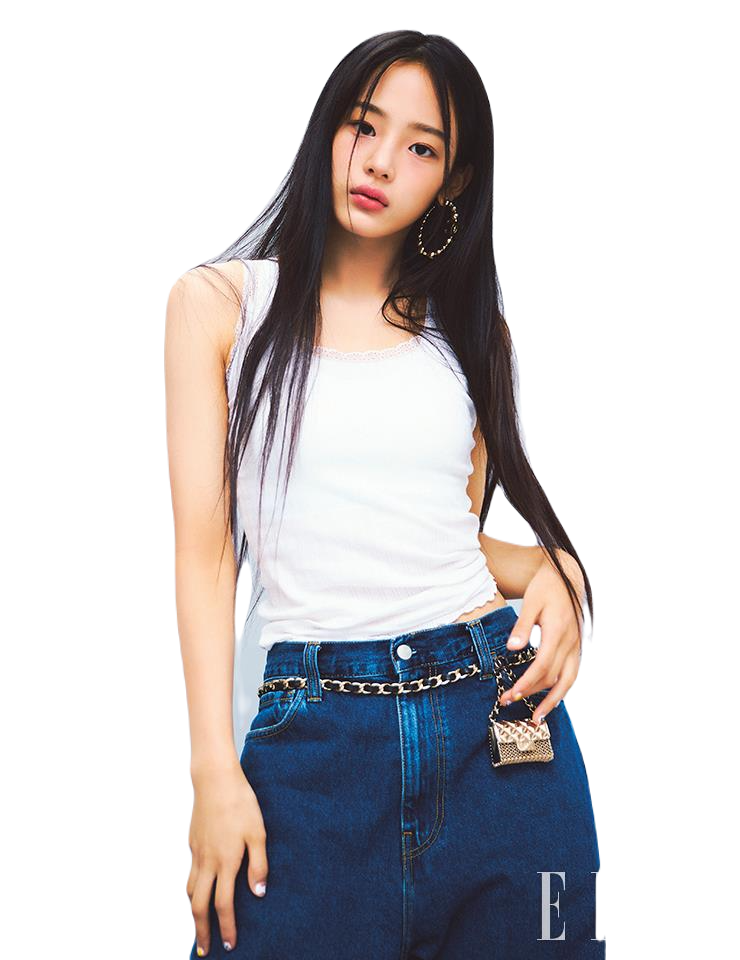
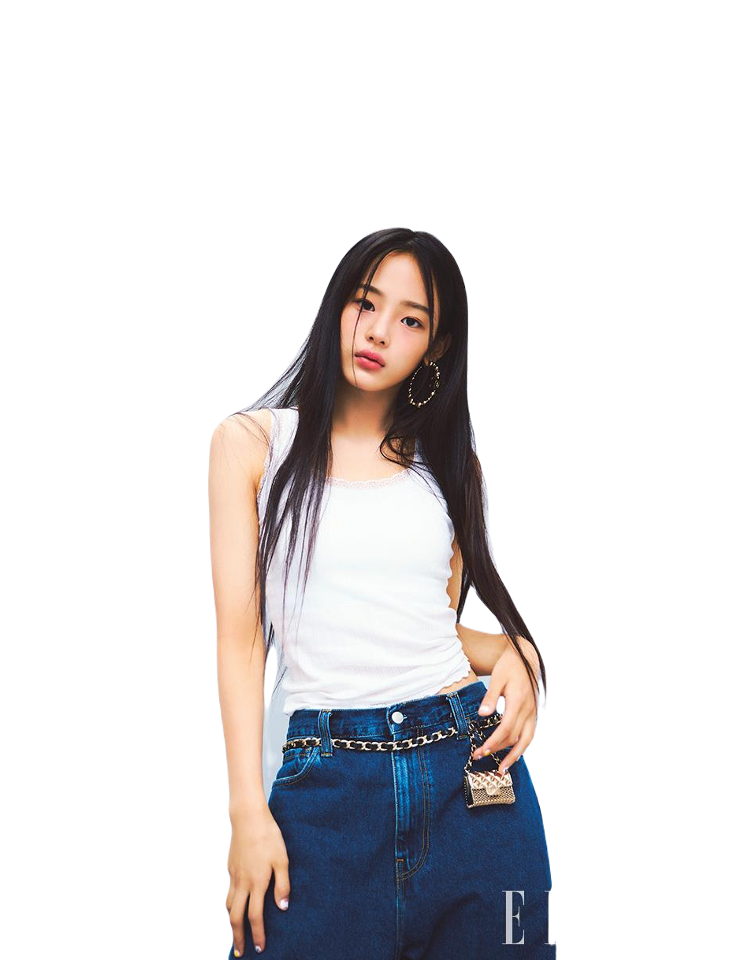
미?완성

diff --git a/index.html b/index.html
@@ -10,23 +10,23 @@
 <body>
     <figure>
         <img src="img/해린.png" alt="Necromancer" onClick="location.href='https://youtu.be/J8_56-8eSDU'">
-        <figcaption>Haerin</figcaption>
+        <figcaption>HAERIN</figcaption>
     </figure>
     <figure>
         <img src="img/민지.png" alt="Necromancer">
-        <figcaption>Minji</figcaption>
+        <figcaption>MINJI</figcaption>
     </figure>
     <figure>
-        <img src="https://assets.codepen.io/1480814/necro.png" alt="Necromancer">
-        <figcaption>The Necro</figcaption>
+        <img src="img/다니엘.png" alt="Necromancer">
+        <figcaption>DANIELLE</figcaption>
     </figure>
     <figure>
-        <img src="https://assets.codepen.io/1480814/necro.png" alt="Necromancer">
-        <figcaption>The Necro</figcaption>
+        <img src="img/하니.png" alt="Necromancer">
+        <figcaption>HANNI</figcaption>
     </figure>
     <figure>
-        <img src="https://assets.codepen.io/1480814/necro.png" alt="Necromancer">
-        <figcaption>The Necro</figcaption>
+        <img src="img/혜인.png" alt="Necromancer">
+        <figcaption>HYEIN</figcaption>
     </figure>
 
 </body>
